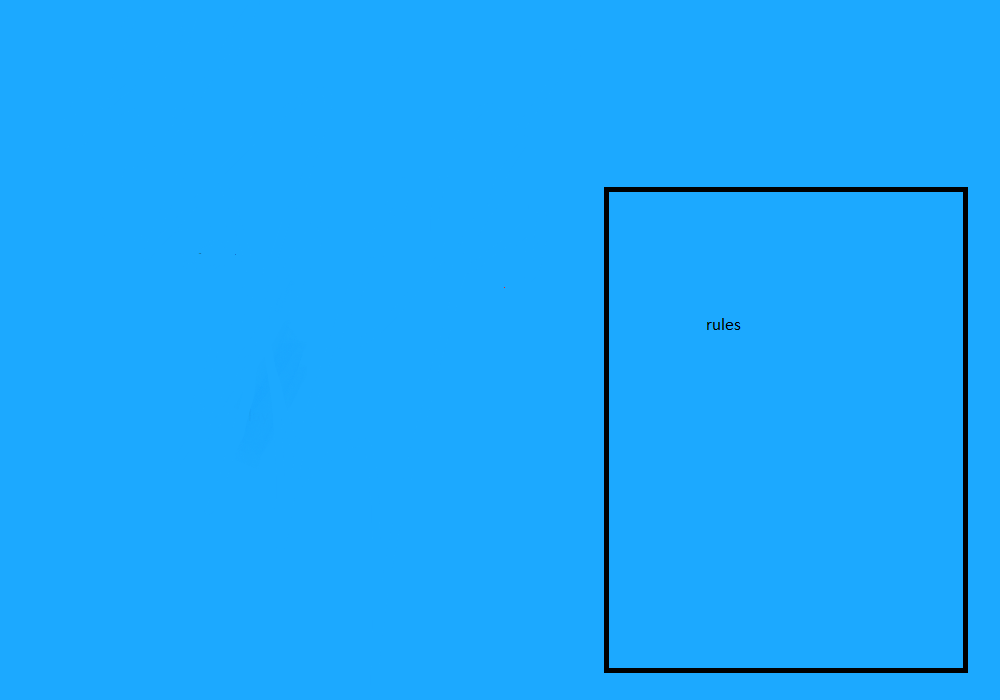
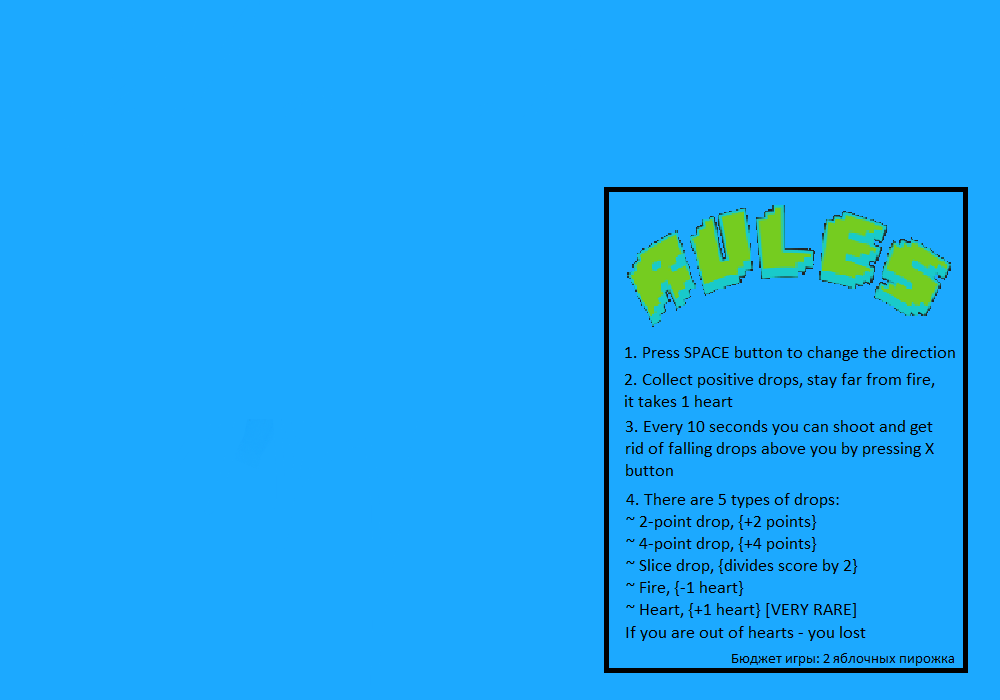
New cooldown time and added rules

Changed region(s): [[0.62, 0.3, 0.961, 0.96]]

diff --git a/main.py b/main.py
@@ -403,7 +403,7 @@ class slice(pygame.sprite.Sprite):
             mixer.Channel(1).play(mixer.Sound('data\\kill.mp3'))
 
 
-cooldown_time = 3
+cooldown_time = 10
 last_press_time = 0
 isReady = False
 
